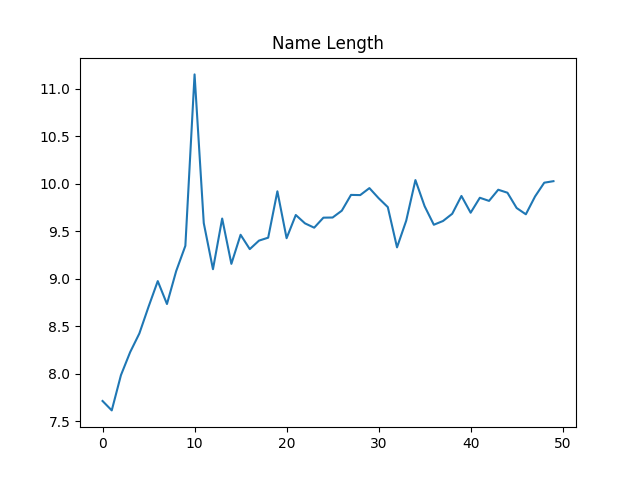
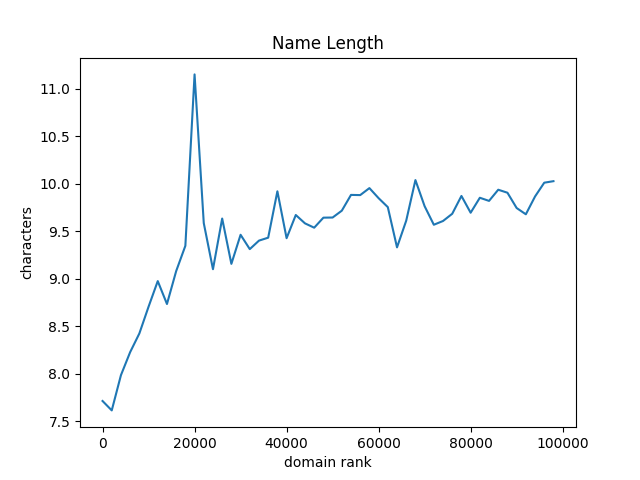
plot improvements

diff --git a/domain-trends.py b/domain-trends.py
@@ -5,7 +5,7 @@ import wordninja
 
 from collections import Counter
 from matplotlib import pyplot as plt
-from typing import Generator, List
+from typing import Generator, List, Tuple
 
 
 DOMAIN_RANKS_URL = (
@@ -16,9 +16,7 @@ DOMAIN_RANKS_URL = (
 
 def analyze_trends() -> None:
     filestream = _get_filestream(DOMAIN_RANKS_URL)
-    word_counter = Counter()
-    name_lengths = []
-    number_of_words = []
+    word_counter, name_lengths, number_of_words = Counter(), [], []
 
     for line in csv.DictReader(_read_lines(filestream, 10**5), delimiter='\t'):
         name = line['#host_rev'].split('.')[-1]
@@ -60,27 +58,35 @@ def _save_word_count(word_counter: Counter) -> None:
 
 
 def _save_name_lengths(name_lengths: List[int]) -> None:
-    plt.plot(_average_chunks(name_lengths, 2000))
+    steps, averages = _average_chunks(name_lengths, 2000)
+    plt.plot(steps, averages)
     plt.title('Name Length')
+    plt.xlabel('domain rank')
+    plt.ylabel('characters')
     plt.savefig('name-length.png')
     plt.clf()
 
 
 def _save_number_of_words(number_of_words: List[int]) -> None:
-    plt.plot(_average_chunks(number_of_words, 2000))
+    steps, averages = _average_chunks(number_of_words, 2000)
+    plt.plot(steps, averages)
     plt.title('Number Of Words')
+    plt.xlabel('domain rank')
+    plt.ylabel('number of words')
     plt.savefig('number-of-words.png')
     plt.clf()
 
 
-def _average_chunks(data: List[int], size: int) -> List[float]:
-    result = []
+def _average_chunks(data: List[int], size: int) -> Tuple[List[float], List[int]]:
+    steps, averages = [], []
 
     for i in range(len(data) // size):
-        chunk = data[size*i:size*(i+1)]
-        result.append(sum(chunk) / len(chunk))
+        start = size * i
+        chunk = data[start:start+size]
+        steps.append(start)
+        averages.append(sum(chunk) / len(chunk))
 
-    return result
+    return steps, averages
 
 
 if __name__ == '__main__':
